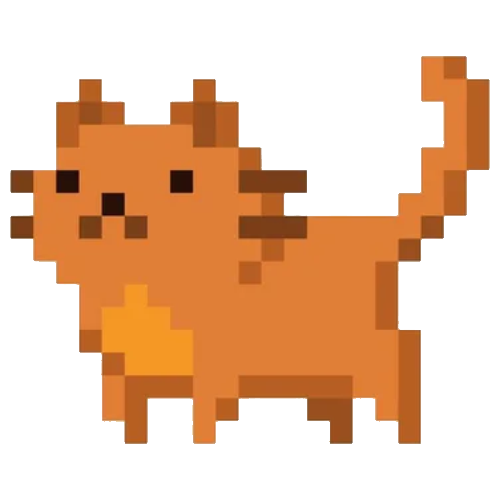
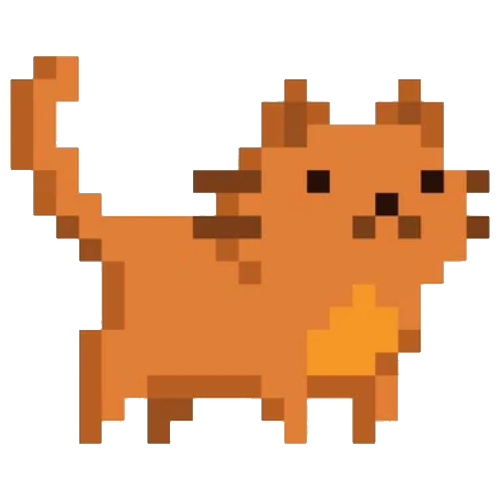
스타트 버튼 추가 게임오버 이미지 추가 충돌 민감도 향상

diff --git a/ditto/js/game.js b/ditto/js/game.js
@@ -3,6 +3,7 @@ var ctx = canvas.getContext('2d');
 
 const gameWrap = document.getElementById('gameWrap');
 const restartButton = document.getElementById('restartBtn');
+const startButton = document.getElementById('startBtn');
 
 const gameWidth = gameWrap.offsetWidth;
 const gameHeight = gameWrap.offsetHeight;
@@ -37,6 +38,10 @@ let obstacleImg1 = new Image();
 obstacleImg1.src = "asset/img/gamza.jpg";
 let subject = new Image();
 subject.src = "asset/img/cat.png";
+
+let deadSubject = new Image()
+deadSubject.src = "asset/img/dead_cat.png";
+
 let groundImg = new Image();
 groundImg.src = "asset/img/ground.png";
 let skyImg = new Image();
@@ -48,8 +53,9 @@ const canvasHeight = 300;
 
 let isNight = false;
 
-let obstacleInterval = 60; //장애물 출현 간격
+let obstacleInterval = 30; //장애물 출현 간격
 
+let gameover = false;
 
 //공룡
 let dino = {
@@ -58,9 +64,12 @@ let dino = {
     width: 30,
     height: 30,
     draw: function() {
-        ctx.fillStyle = '#666';
-        ctx.fillRect(this.x, this.y, this.width, this.height);
-        //ctx.drawImage(subject,this.x-10,this.y-20,50, 50);
+        //ctx.fillStyle = '#666';
+        //ctx.fillRect(this.x, this.y, this.width, this.height);
+        ctx.drawImage(subject,this.x-10,this.y-20,50, 50);
+    },
+    dead: function(){
+        ctx.drawImage(deadSubject,this.x-10,this.y-20,50, 50);
     }
 };
 
@@ -129,7 +138,8 @@ class Obstacle{
 //장애물 0 기본
 class Obstacle0 extends Obstacle{
     constructor(){
-        super(800,floor,30,30);
+        const size = 30;
+        super(800,floor,size,size);
     }
     draw(){
         super.draw('red');
@@ -139,7 +149,7 @@ class Obstacle0 extends Obstacle{
 //장애물 1
 class Obstacle1 extends Obstacle{
     constructor(){
-        super(800,floor,90,30);
+        super(800,floor,60,20);
     }
     draw(){
         super.draw('green');
@@ -149,7 +159,7 @@ class Obstacle1 extends Obstacle{
 //장애물 2
 class Obstacle2 extends Obstacle{
     constructor(){
-        super(800,floor-30,30,60);
+        super(800,floor-20,20,40);
     }
     draw(){
         super.draw('yellow');
@@ -158,7 +168,7 @@ class Obstacle2 extends Obstacle{
 //장애물 3
 class Obstacle3 extends Obstacle{
     constructor(){
-        super(800,floor-100,30,30);
+        super(800,floor-100,20,20);
     }
     draw(){
         super.draw('blue');
@@ -250,7 +260,10 @@ function loop(){
     }else if(dino.y<floor){
         jumpV +=jumpA; //지면에 가까워질수록 속도 증가
         dino.y+=jumpV;
-        if(dino.y>floor) dino.y=floor; //잠수하는 현상 수정
+        if(dino.y>floor){
+            dino.y = floor; //공룡 위치 초기화
+            jumpV=maxJumpTime; //점프 속도 초기화
+        } 
     }else if(dino.y>=floor){
         dino.y = floor; //공룡 위치 초기화
         jumpV=maxJumpTime; //점프 속도 초기화
@@ -269,8 +282,7 @@ function loop(){
     }
     //점수
     drawScore();
-    dino.draw();
-
+    
     let check = false;
     //맨 처음 요소가 화면 밖으로 나가면 제거
     if(obstacleArr[0]?.x +obstacleArr[0]?.width < 0){
@@ -286,9 +298,13 @@ function loop(){
     
     //충돌시
     if(check){
+        dino.dead();
+        cancelAnimationFrame(animation);
         //루프 종료
         gameOver();
         return false;
+    }else{
+        dino.draw();
     }
     //밤이면 반전
     if(isNight){
@@ -296,23 +312,14 @@ function loop(){
     }
 }
 
-loop();
+//loop();
 
 //충돌 검사
 function checkCollision(dino, obstacle){
-    const isCollision
-    = dino.x <= obstacle.x + obstacle.width && //공룡 왼쪽 x
+    return dino.x <= obstacle.x + obstacle.width && //공룡 왼쪽 x
     dino.x + dino.width >= obstacle.x && //공룡 오른쪽 x
     dino.y <= obstacle.y + obstacle.height && //공룡 위 y
     dino.y + dino.height >= obstacle.y //공룡 아래 y
-
-    //충돌시
-    if(isCollision){
-        cancelAnimationFrame(animation);
-        return true;
-    }
-    return false;
-    
 }
 //키다운 이벤트
 document.addEventListener('keydown',function(e){
@@ -323,7 +330,6 @@ document.addEventListener('keydown',function(e){
     }
 })
 //키업 이벤트
-//키다운 이벤트
 document.addEventListener('keyup',function(e){
     //스페이스바
     if(e.code==='Space'&&!down){
@@ -352,10 +358,11 @@ function gameOver() {
 function makeReStartButton(){
     restartButton.classList.remove("hide");
 }
-
-// 캔버스에 다시하기 버튼 추가
-gameWrap.appendChild(restartButton);
-
+//시작버튼 클릭 시
+startButton.onclick= function(){
+    startButton.classList.add("hide");
+    loop();
+}
 
 //다시하기 버튼 클릭 시 게임 다시 시작
 restartButton.onclick = function() {

diff --git a/ditto/dino_home.html b/ditto/dino_home.html
@@ -17,14 +17,21 @@
 
         border: 2px solid #000;
       }
-      #restartBtn{
+      .game_btn{
         position : absolute;
-        left : 380px;
+        left : 350px;
         top : 130px;
         height: 40px;
-        width: 40px;
+        width: 100px;
 
-        font-size: 10px;
+        background-color: transparent;
+        border : 0px;
+        cursor: pointer;
+
+        font-size: 14px;
+        color : #424242;
+        user-select: none;
+        font-family: 'NeoDunggeunmoPro-Regular';
       }
       .hide{
         display: none;
@@ -43,7 +50,8 @@
   <body>
     <div id="gameWrap">
       <canvas id="gameCanvas"></canvas>
-      <button id="restartBtn" class="hide">다시하기</button>
+      <button id="startBtn" class="game_btn">시작하기</button>
+      <button id="restartBtn" class="hide game_btn">다시하기</button>
     </div>
     <script src="js/game.js"></script>
   </body>

diff --git a/README.md b/README.md
@@ -25,9 +25,14 @@
 ### 23.04.06
 점프 가속도 추가
 
-### 23.04.08
+### 23.04.07
 장애물 출현 간격 변수화
 일부 장애물 y값 조정
 공룡이 잠수하는 현상 수정
 화면 밖 장애물 제거시 화면 깜박임 현상 수정
 공룡 충돌 검사 정밀도 향상
+
+### 23.04.08
+스타트 버튼 추가
+게임오버 이미지 추가
+충돌 민감도 향상
